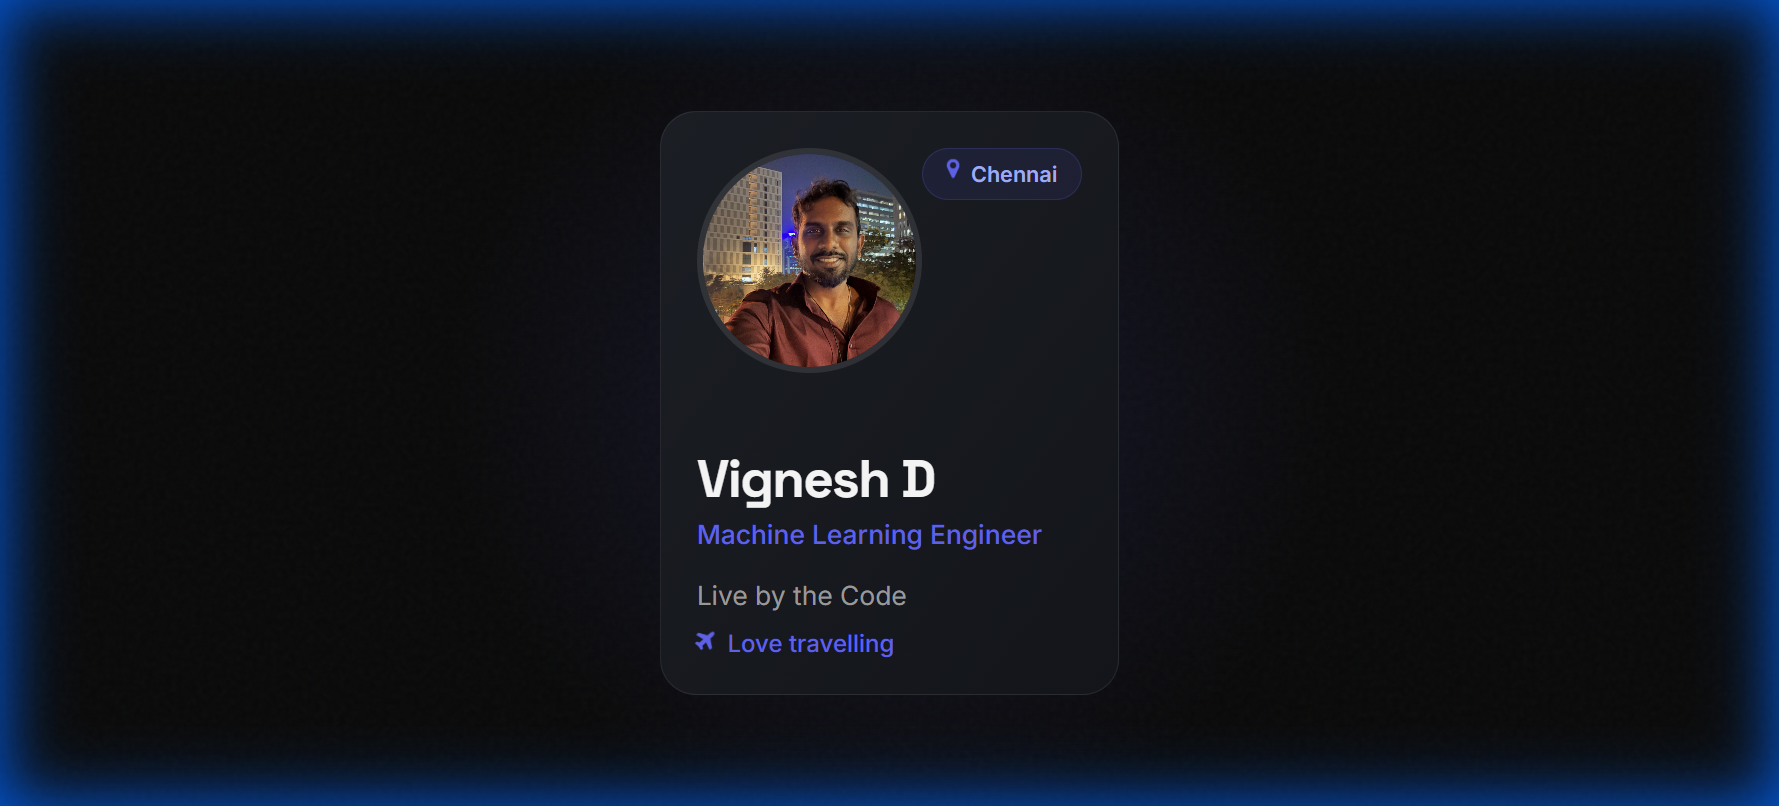
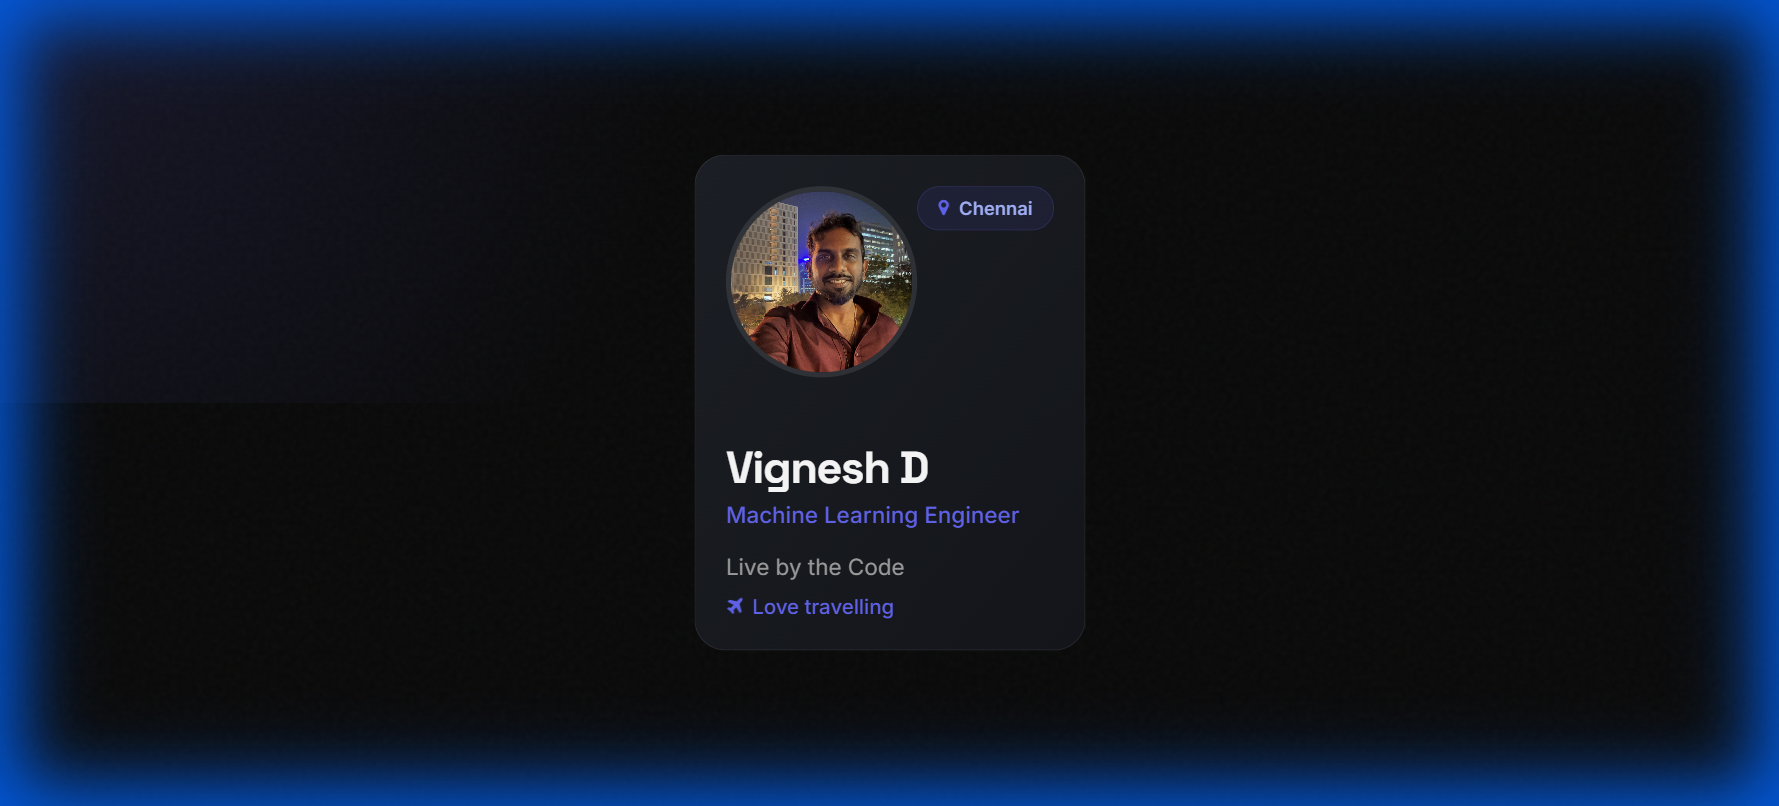
preview image update 3

Changed region(s): [[0.0, 0.0, 1.0, 1.0], [0.371, 0.1551, 0.6183, 0.4653], [0.371, 0.5583, 0.5874, 0.8065]]

diff --git a/index.html b/index.html
@@ -7,11 +7,17 @@
 	<title>Vignesh D | Machine Learning Engineer</title>
 
 	<!-- Social Media Preview (Open Graph) -->
+	<!-- Social Media Preview (LinkedIn, WhatsApp, Instagram, Facebook) -->
+	<!-- Note: These platforms use the Open Graph (og:) standard -->
 	<meta property="og:title" content="Vignesh D | Machine Learning Engineer">
 	<meta property="og:description" content="Lead Analytics & MLOps with 6+ years of experience.">
 	<meta property="og:image" content="preview.png">
+	<meta property="og:image:width" content="1200">
+	<meta property="og:image:height" content="630">
+	<meta property="og:site_name" content="Vignesh D Portfolio">
 	<meta property="og:url" content="https://dvignesh1995.github.io/">
 	<meta property="og:type" content="website">
+	<meta property="og:locale" content="en_US">
 
 	<!-- Twitter Card -->
 	<meta name="twitter:card" content="summary_large_image">
